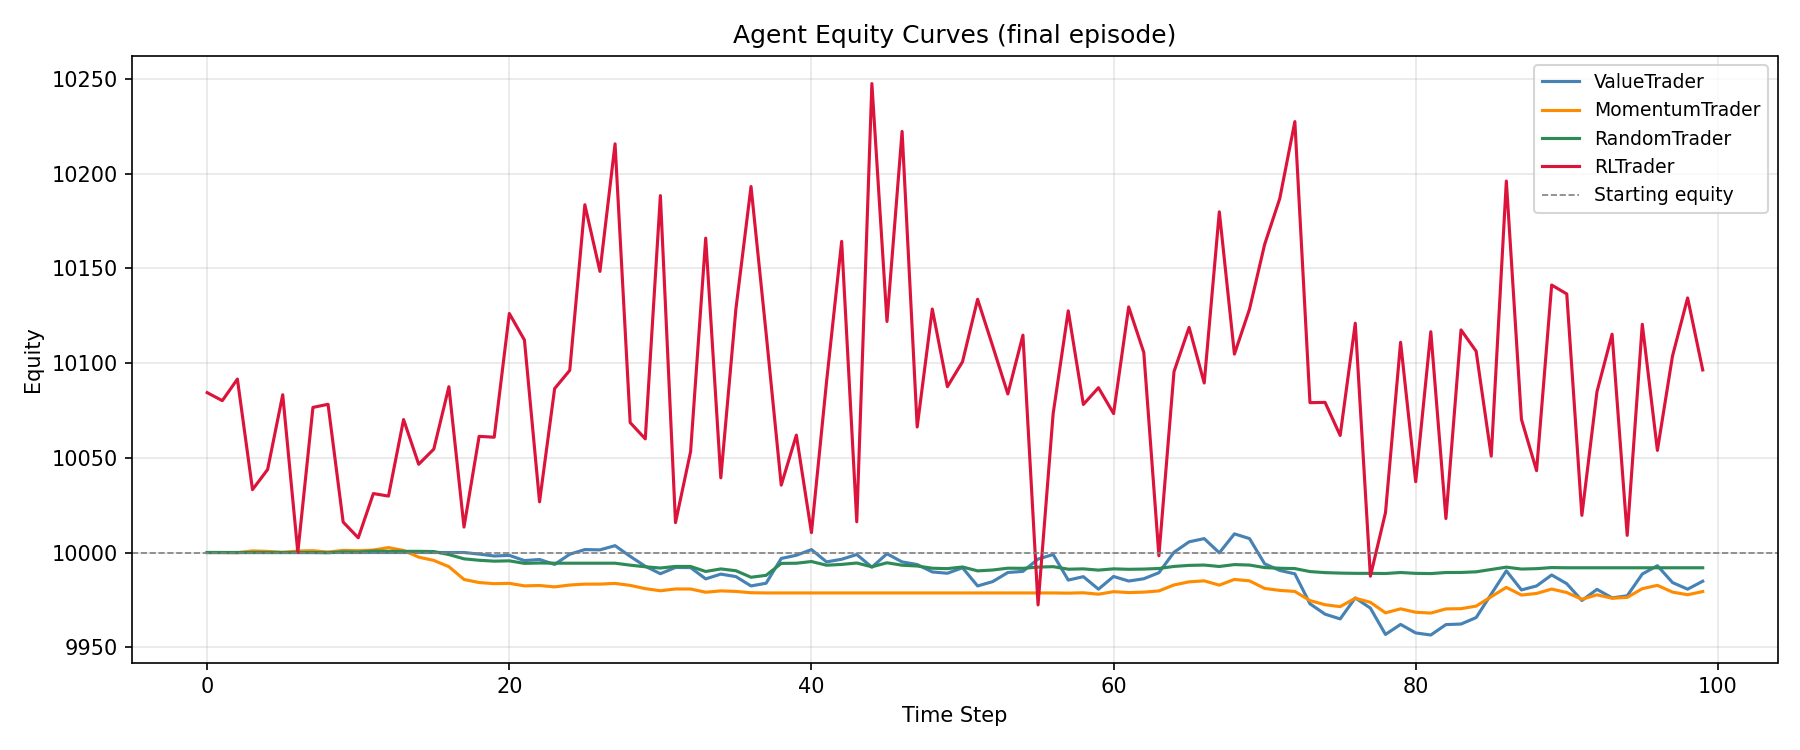
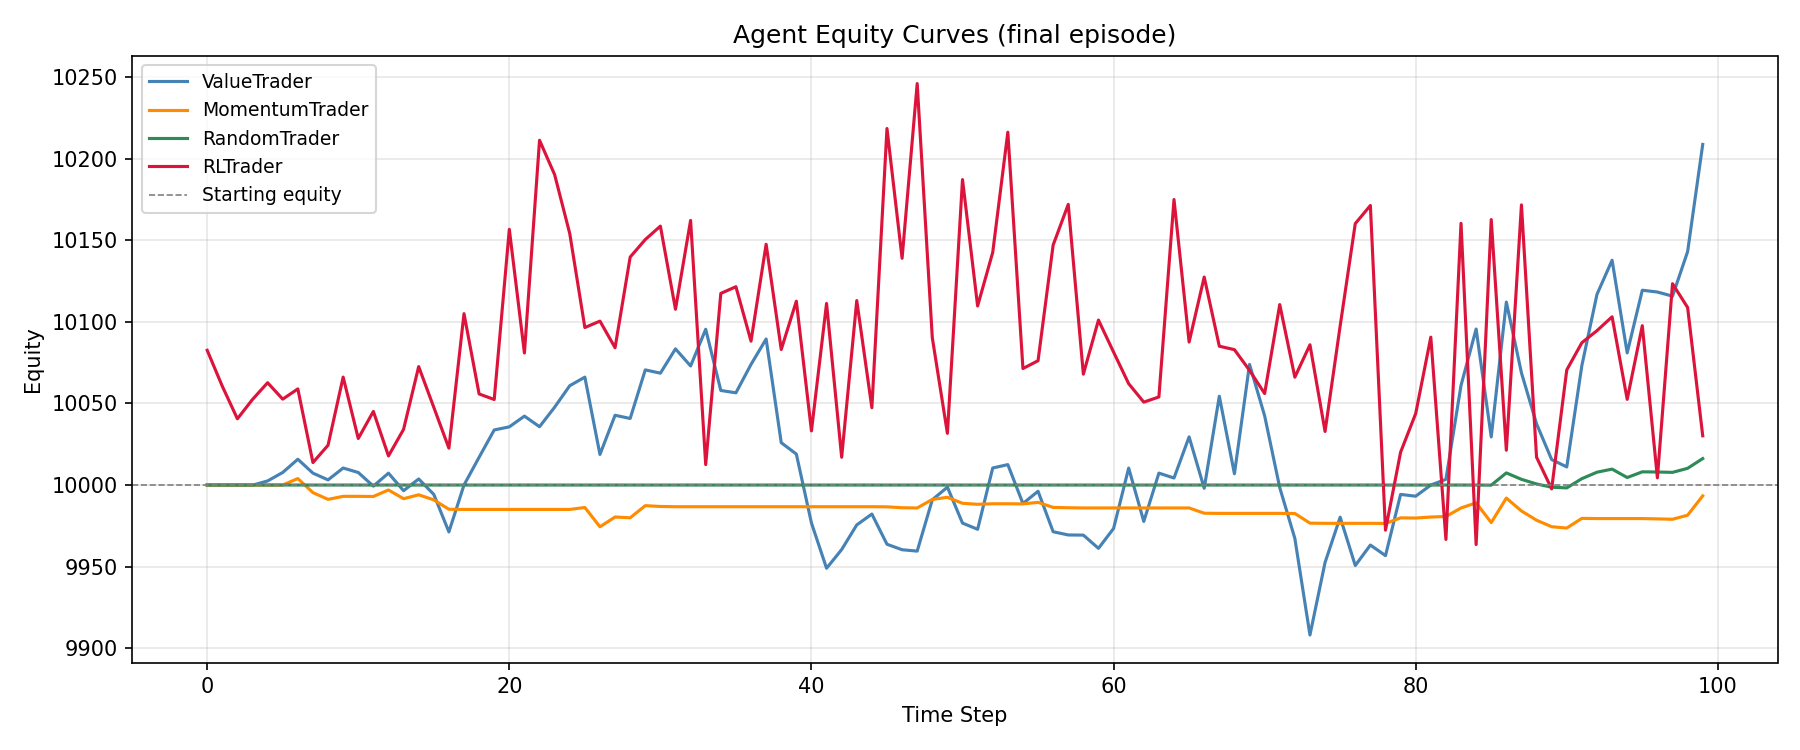
Add realistic slippage modeling to trade execution
Adds execution-layer slippage parameters and a helper function to model proportional slippage based on trade size for both spot and futures trades.

Replit-Commit-Author: Agent
Replit-Commit-Session-Id: 3826bf3c-e3fd-4317-b321-61e418fea702
Replit-Commit-Checkpoint-Type: full_checkpoint
Replit-Commit-Event-Id: fe7162a0-3a73-4254-b2ff-a3ab3580bb4f
Replit-Helium-Checkpoint-Created: true

diff --git a/project/broker/broker.py b/project/broker/broker.py
@@ -149,6 +149,14 @@ class SimulatedBroker(Broker):
         self.asset_vol_ema   = {}   # asset → smoothed |return| estimate
         self.asset_vol_alpha = 0.1  # EMA decay (slower than funding EMA)
 
+        # --- Execution-layer slippage parameters --------------------------
+        # Realistic crypto fills: spot uses TWAP-like routing (low slippage),
+        # futures use market-like routing (higher slippage).
+        # size_factor scales slippage up for large deltas.
+        self.spot_slippage_bps    = 5    # 0.05 % for spot
+        self.futures_slippage_bps = 20   # 0.20 % for futures
+        self.slippage_scale       = 1.0  # multiplier on trade size
+
     # ------------------------------------------------------------------
     # Standard order-book routing (used by non-RL agents)
     # ------------------------------------------------------------------
@@ -278,13 +286,16 @@ class SimulatedBroker(Broker):
             # --- 3. Execute spot (slow — 2% threshold) -------------------
             delta_spot = spot_target - self.spot_positions[a]
             if abs(delta_spot) > 0.02:
+                # Apply spot slippage (low — TWAP-like routing)
+                delta_spot_slipped = self._apply_slippage(delta_spot, self.spot_slippage_bps)
                 spot_cost = self._execute_spot_trade(
-                    a, price, delta_spot, microstructure_fn
+                    a, price, delta_spot_slipped, microstructure_fn
                 )
                 agent.balance      -= spot_cost
                 agent.realized_pnl -= spot_cost
                 total_cost         += spot_cost
-                self.spot_positions[a] = spot_target
+                # Store actual filled exposure, not the raw target
+                self.spot_positions[a] = self.spot_positions[a] + delta_spot_slipped
 
             # --- 4. Execute futures (fast — 1% threshold) ----------------
             delta_fut = fut_target - self.futures_positions[a]
@@ -315,13 +326,16 @@ class SimulatedBroker(Broker):
                 fut_target = current_fut + delta_fut
 
             if abs(delta_fut) > 0.01:
+                # Apply futures slippage (higher — market-like routing)
+                delta_fut_slipped = self._apply_slippage(delta_fut, self.futures_slippage_bps)
                 fut_cost = self._execute_futures_trade(
-                    a, price, delta_fut, microstructure_fn
+                    a, price, delta_fut_slipped, microstructure_fn
                 )
                 agent.balance      -= fut_cost
                 agent.realized_pnl -= fut_cost
                 total_cost         += fut_cost
-                self.futures_positions[a] = fut_target
+                # Store actual filled exposure (slipped), not the intended target
+                self.futures_positions[a] = current_fut + delta_fut_slipped
 
             # --- 5. Write combined exposure back to agent ----------------
             combined = self.spot_positions[a] + self.futures_positions[a]
@@ -333,6 +347,24 @@ class SimulatedBroker(Broker):
         # Keep agent.position (base class, SOL) in sync for display / featurize_state
         agent.position = agent.positions.get("SOL", 0.0)
         return total_cost
+
+    # ------------------------------------------------------------------
+    # Slippage helpers
+    # ------------------------------------------------------------------
+
+    def _apply_slippage(self, delta_exposure, slippage_bps):
+        """
+        Return the actual filled delta after modelling execution slippage.
+
+        Slippage grows linearly with trade size via `slippage_scale`:
+          effective_slippage = (slippage_bps / 10 000) × (1 + scale × |delta|)
+
+        The fill is reduced in the direction of the trade so the agent always
+        ends up *less* exposed than it intended — a realistic conservative bias.
+        """
+        size_factor = 1.0 + self.slippage_scale * abs(delta_exposure)
+        slippage    = (slippage_bps / 10_000.0) * size_factor
+        return delta_exposure * (1.0 - slippage)
 
     # ------------------------------------------------------------------
     # Per-asset volatility helpers
